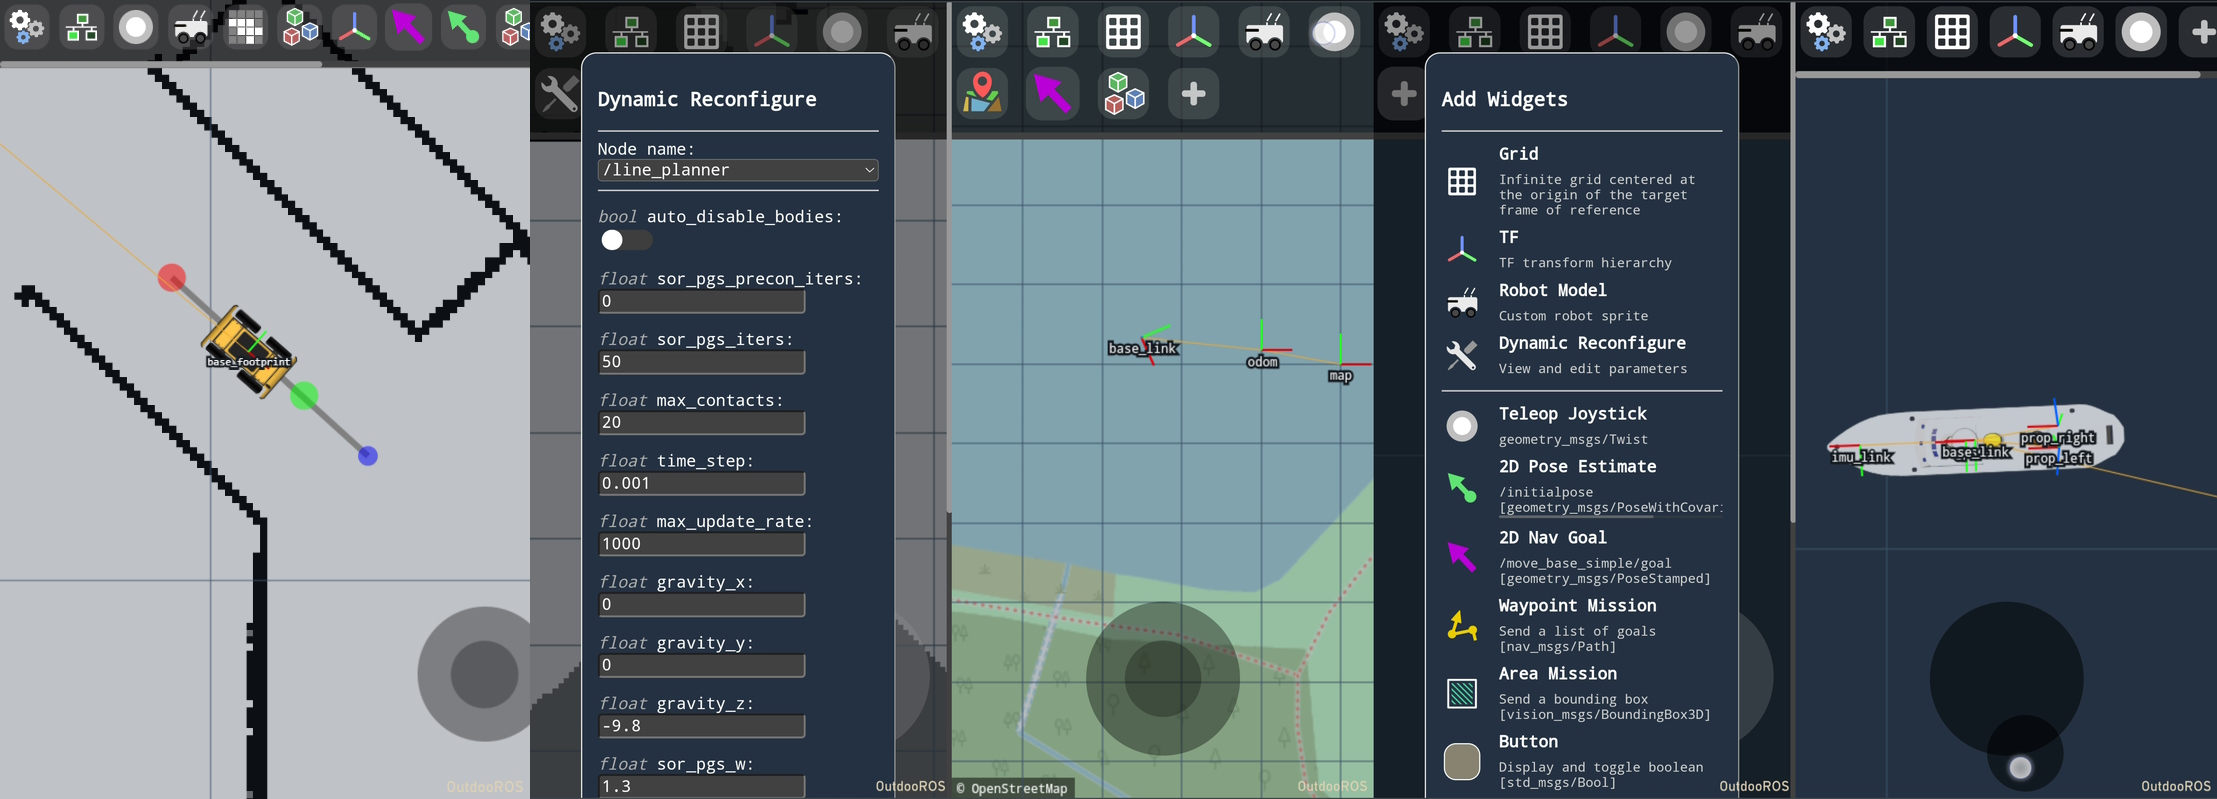
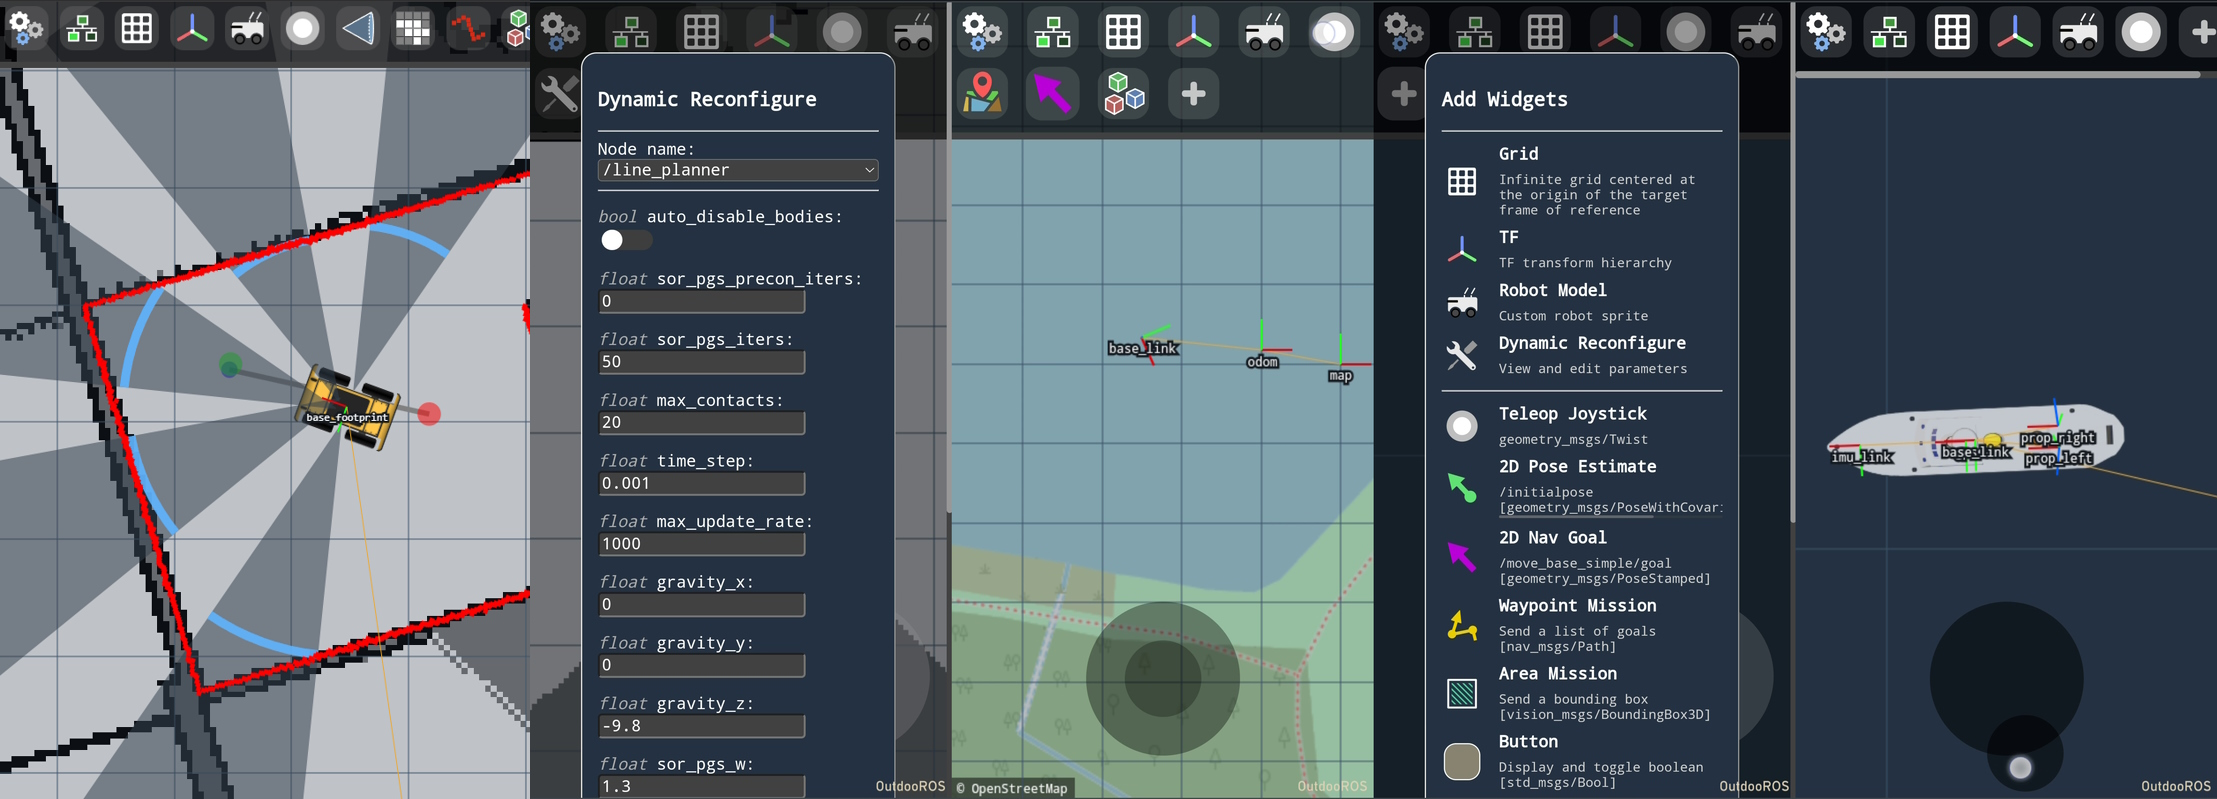
readme update, waypoints fix

Changed region(s): [[0.0, 0.0, 0.249, 1.0]]

diff --git a/public/templates/waypoints/waypoints_script.js b/public/templates/waypoints/waypoints_script.js
@@ -121,8 +121,21 @@ const reverseButton = document.getElementById("{uniqueID}_reverse");
 const stopButton = document.getElementById("{uniqueID}_stop");
 
 startButton.addEventListener('click', ()=>{sendMessage(points)});
-reverseButton.addEventListener('click', ()=>{sendMessage(points.reverse())});
+reverseButton.addEventListener('click', ()=>{sendMessage([...points].reverse())});
 stopButton.addEventListener('click', ()=>{sendMessage([])});
+
+const flipButton = document.getElementById("{uniqueID}_flip");
+const deleteButton = document.getElementById("{uniqueID}_delete");
+
+flipButton.addEventListener('click', ()=>{
+	points.reverse();
+	drawWaypoints();
+});
+
+deleteButton.addEventListener('click', ()=>{
+	points = [];
+	drawWaypoints();
+});
 
 function drawWaypoints() {
 

diff --git a/public/templates/waypoints/waypoints_modal.html b/public/templates/waypoints/waypoints_modal.html
@@ -10,18 +10,29 @@
 
 		<br>
 
+		<br>
+
+		<h4>Edit Path</h4>
+
+		<button id="{uniqueID}_flip" >Flip waypoint order</button>
 
 		<br>
 
-		<button id="{uniqueID}_start" >Publish Waypoints</button>
+		<button id="{uniqueID}_delete" style="background-color: rgb(104, 78, 31);">Clear path data</button>
 
 		<br>
 
-		<button id="{uniqueID}_reverse" >Publish Reversed Waypoints</button>
+		<h4>Publish Path</h4>
+
+		<button id="{uniqueID}_start" >Send</button>
 
 		<br>
 
-		<button id="{uniqueID}_stop">Stop (publish empty Path)</button>
+		<button id="{uniqueID}_reverse" >Send Reversed</button>
+
+		<br>
+
+		<button id="{uniqueID}_stop" style="background-color: rgb(104, 78, 31);">Stop (publish empty Path)</button>
 
 		<br>
 

diff --git a/ReadMe.md b/ReadMe.md
@@ -117,6 +117,14 @@ Visualize a MarkerArray. Currently supported types are ARROW, CUBE, SPHERE, CYLI
 
 Render a Path message for navigation debugging.
 
+#### <img src="wiki_assets/sonar.png" alt="" title="Range" width="30" height="30"/> Range
+
+Render a Range message on the main view. Supports grouping multiple messages onto the same topic, as long as the tf frames are different. 
+
+#### <img src="wiki_assets/scan.png" alt="" title="LaserScan" width="30" height="30"/> LaserScan
+
+Display a LaserScan message on the main view. Heavily throttled by default.
+
 #### <img src="wiki_assets/temp.png" alt="" title="Temperature" width="30" height="30"/> Temperature
 
 Display a Temperature message. Only as a widget for now, not on the view itself.
